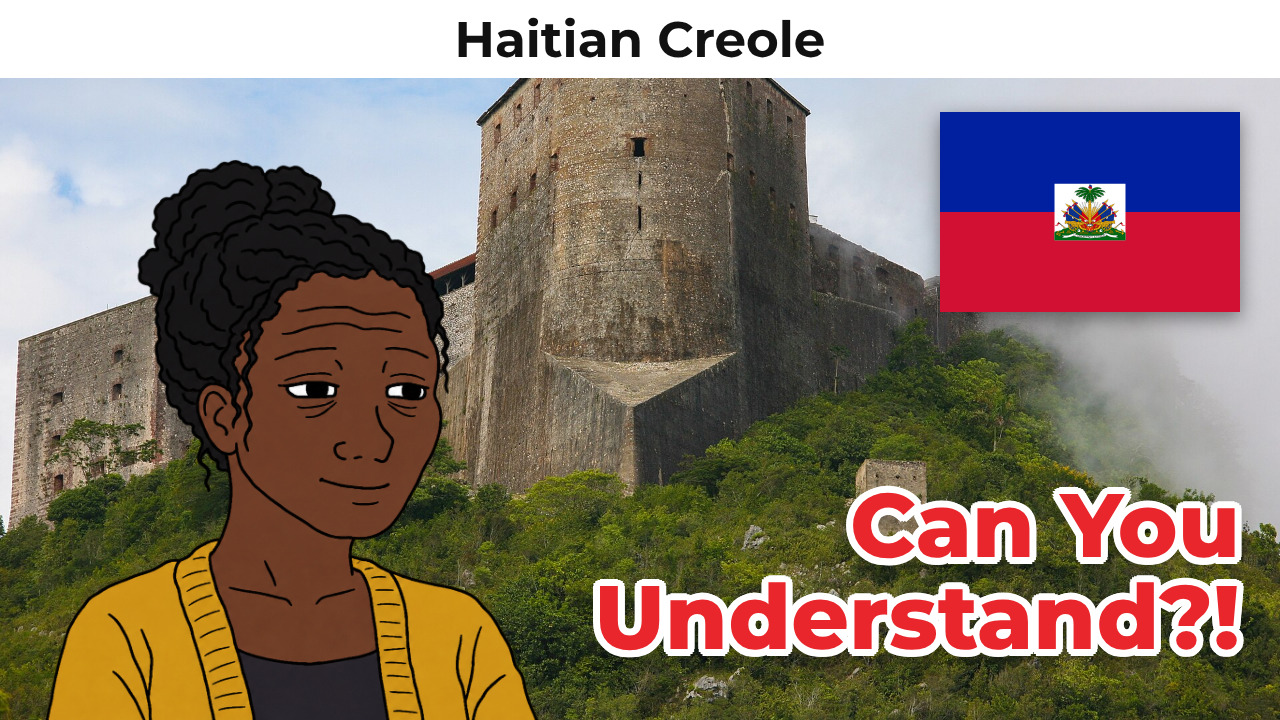
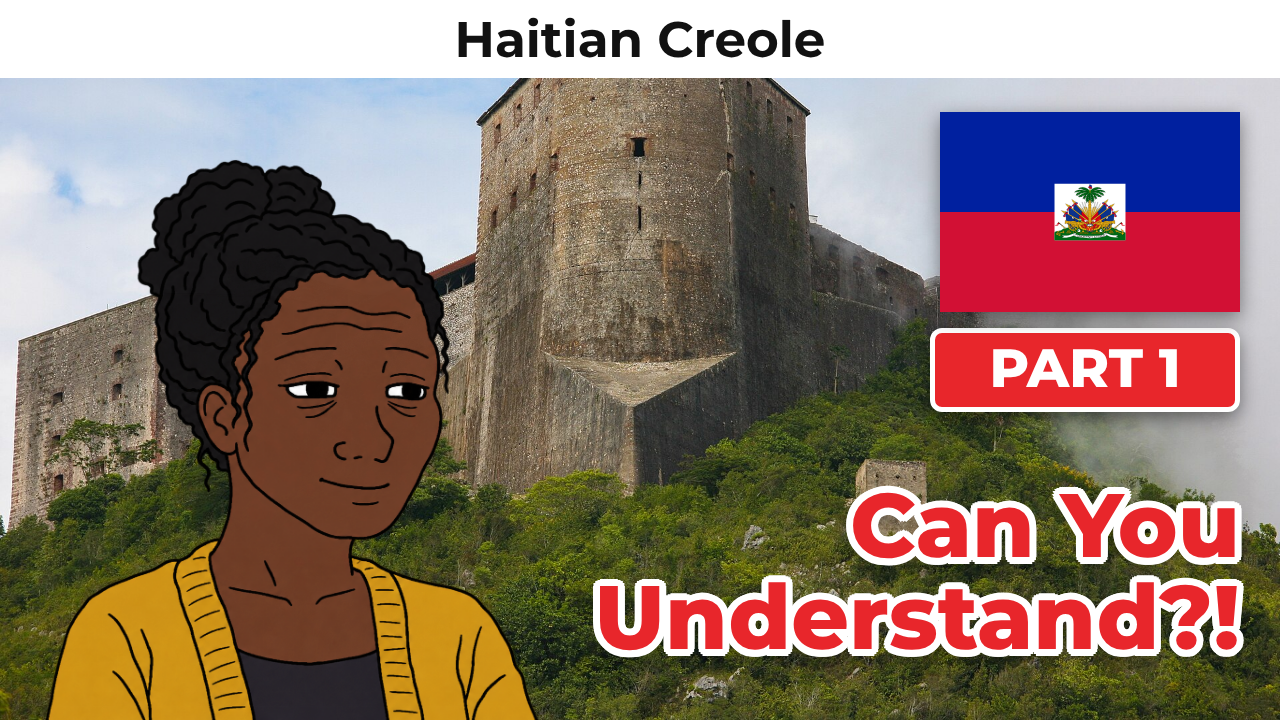
Thumbnails: PART labels for French Part 1 and US accents Part 1, new French Part 2 thumbnail; US accents metadata
Claude-Session: https://claude.ai/code/session_01JteZbjgJzANfm9zkD8PK4e

Changed region(s): [[0.7188, 0.4583, 1.0, 0.6111]]

diff --git a/lingo/meta/us_accents.md b/lingo/meta/us_accents.md
@@ -1,0 +1,38 @@
+# YouTube metadata: American Accents be like (Part 1)
+
+## Title
+American Accents be like (Part 1)
+
+## Description
+How do Americans sound from one state to the next? Five real speeches from recent years, one from each region. Every voice is a real recording, no AI.
+
+American viewers: which accent is yours? Tell us in the comments 👇
+
+0:00 Intro
+0:03 New York (Queens)
+0:35 Georgia (Savannah)
+1:07 Illinois (Chicago)
+1:38 Pennsylvania (Scranton)
+2:10 California (Oakland)
+
+Audio credits (all via Wikimedia Commons, US federal works in the public domain):
+New York: "President Trump Delivers Remarks at the 2020 National Christmas Tree Lighting" by the Trump White House archive, public domain
+Georgia: "Senator Raphael Warnock speaks in support of the nomination of Ketanji Brown Jackson to the Supreme Court" by the United States Senate, public domain
+Illinois: "State of the Union Address (January 25, 2011) Barack Obama" by Whitehouse.gov, public domain
+Pennsylvania: "Joe Biden gives remarks on the Inflation Reduction Act" by The White House YouTube channel, public domain
+California: "Vice President Harris Selma Commemoration Service" by the White House YouTube channel, public domain
+
+Background photos (Wikimedia Commons): Queens skyline by the U.S. National Archives, public domain; Savannah by Will Thomas, CC BY-SA 3.0; Chicago skyline over Lake Michigan by Spoofhound11, CC BY-SA 3.0; Scranton by Dougtone, CC BY-SA 2.0; Oakland by Basil D Soufi, CC BY-SA 3.0.
+
+Thumbnail photo: Queens skyline, U.S. National Archives, public domain
+
+#accents #americanenglish #languages
+
+## Tags
+american accents, us accents, new york accent, southern accent, chicago accent, pennsylvania accent, california accent, american english, dialects, linguistics, LingoDude
+
+## Settings
+- Category: Education
+- Made for kids: No
+- Altered or synthetic content: No (all real recordings)
+- Thumbnail: lingo/out/brand/thumbP_us_accents.png

diff --git a/lingo/meta/french_part2.md b/lingo/meta/french_part2.md
@@ -11,7 +11,7 @@ Five more regional languages of France and its neighbours, each with real record
 0:35 Corsican (~105,000 speakers)
 1:07 Walloon (~600,000 people with some knowledge)
 1:39 Alsatian (~548,000 adult speakers in France)
-2:12 Franco-Provençal (endangered)
+2:11 Franco-Provençal (endangered)
 
 Audio credits:
 Breton: "WIKITONGUES: Jean Luc speaking Breton" by Wikitongues, CC BY 3.0 (YouTube), https://www.youtube.com/watch?v=29euYj0k1Kk
